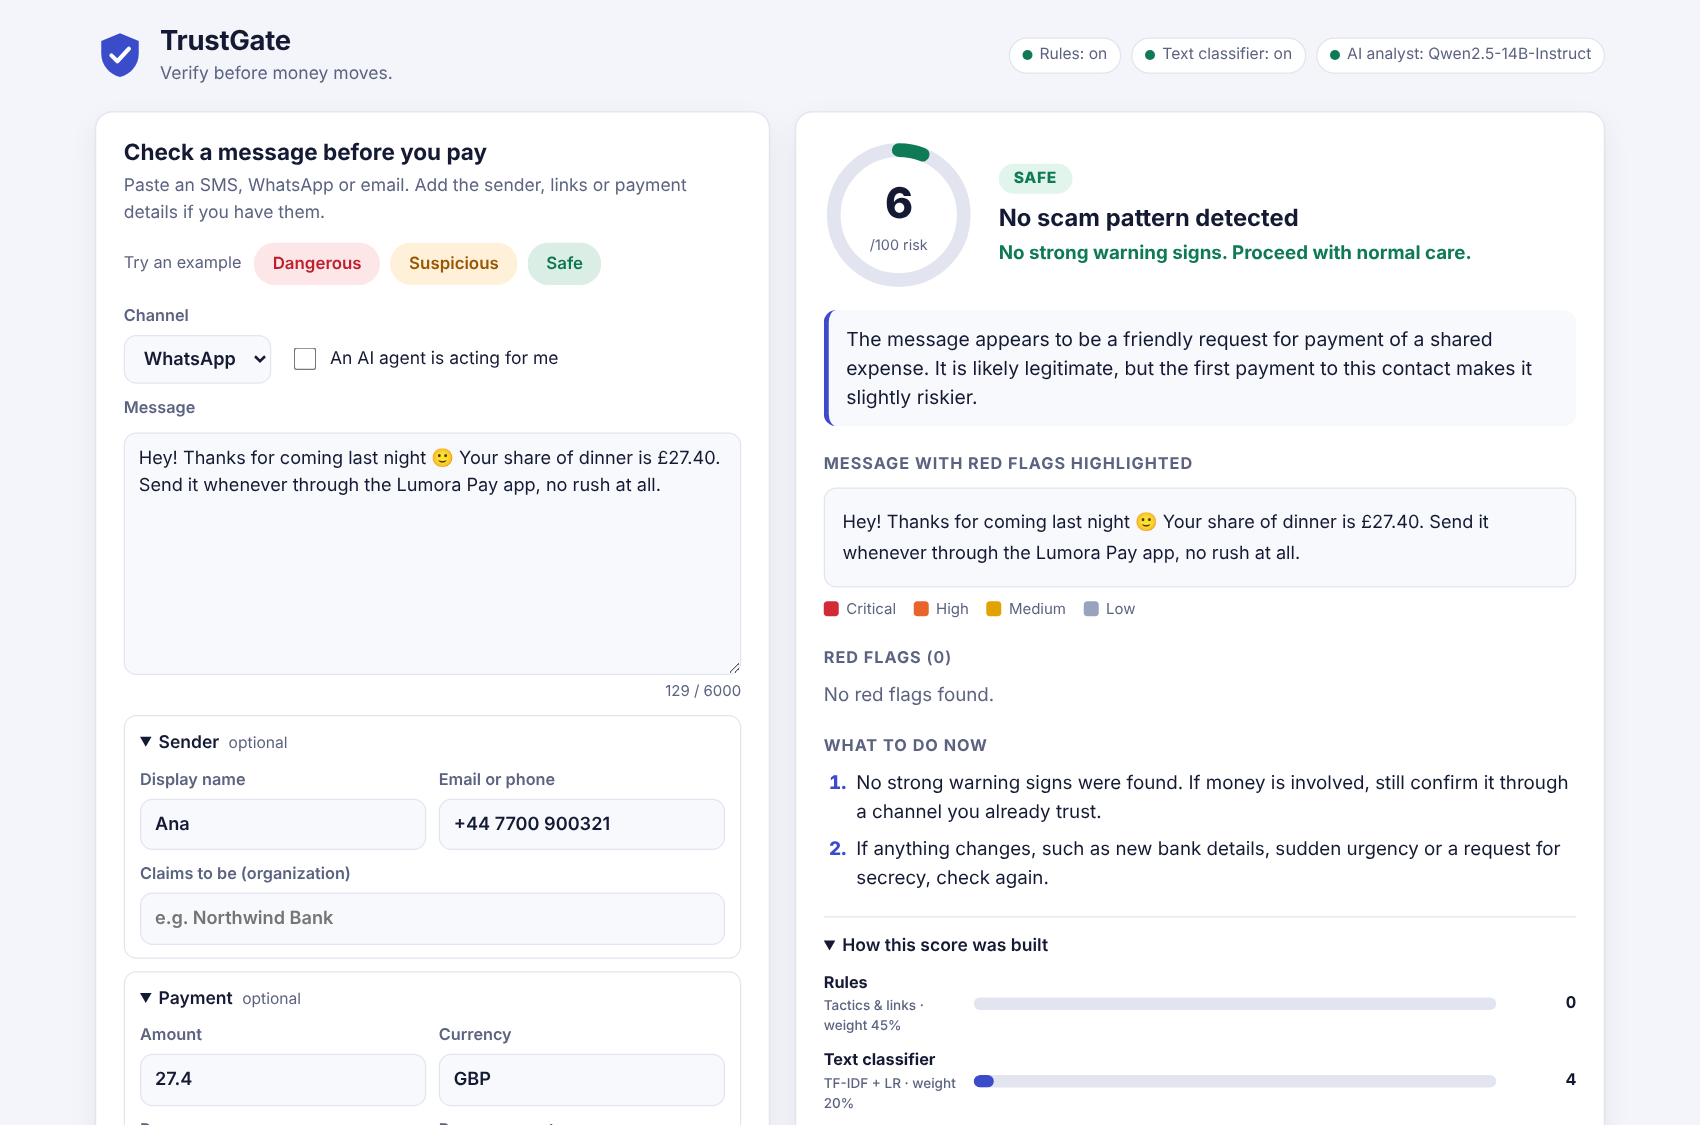
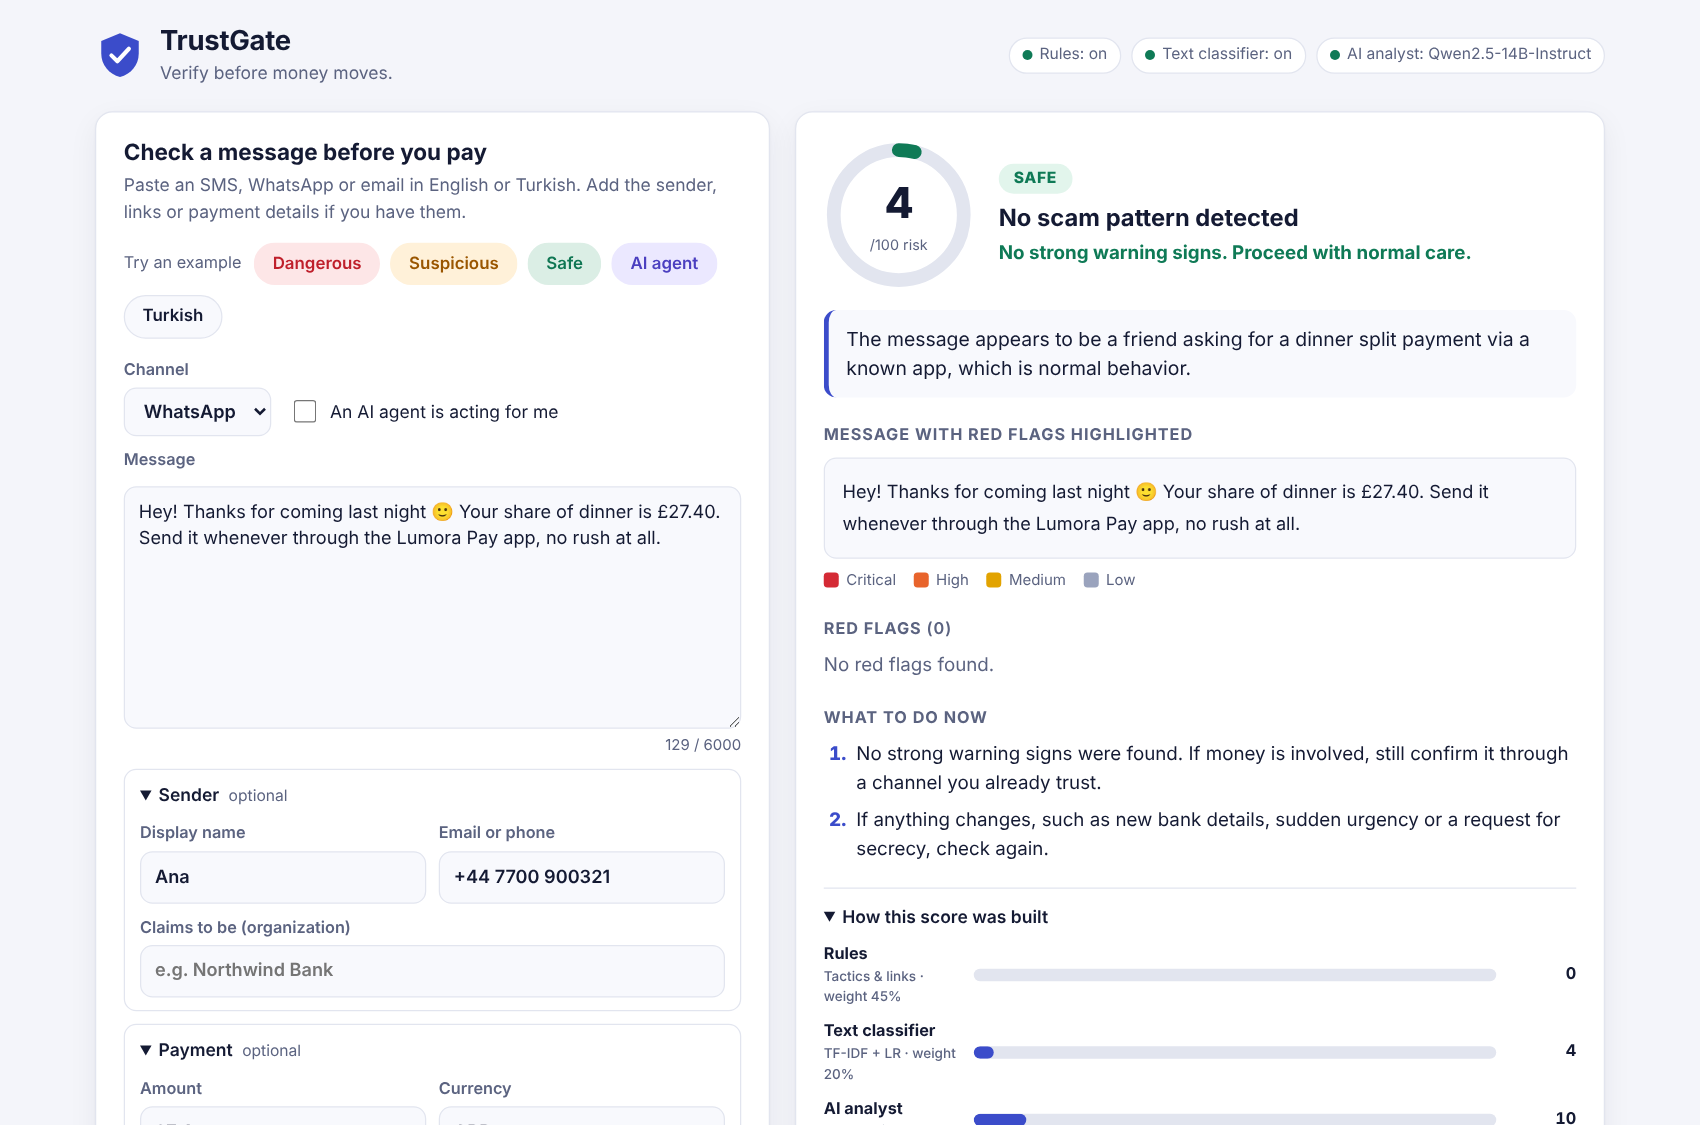
Retake screenshots with the live AI analyst; add AI agent and Turkish
All seven screenshots were retaken against a local server with the live
LLM, after the final report replaced the instant preliminary one.
06-ai-agent.png and 07-turkish.png are new and shown in the README.

Claude-Session: https://claude.ai/code/session_017X4Q9tfuiWkJ59gbm2gDrh

diff --git a/README.md b/README.md
@@ -137,6 +137,10 @@ The first result appears almost instantly from the rules and the classifier. Whe
 |---|---|---|
 | ![Suspicious example](screenshots/02-suspicious.png) | ![Safe example](screenshots/03-safe.png) | ![Mobile layout](screenshots/05-mobile.png) |
 
+| AI agent: a checkout message that tries to instruct the agent | Turkish: "Mum, this is my new number" |
+|---|---|
+| ![AI agent example](screenshots/06-ai-agent.png) | ![Turkish example](screenshots/07-turkish.png) |
+
 ### HTTP API
 
 Interactive docs at `/docs`.
